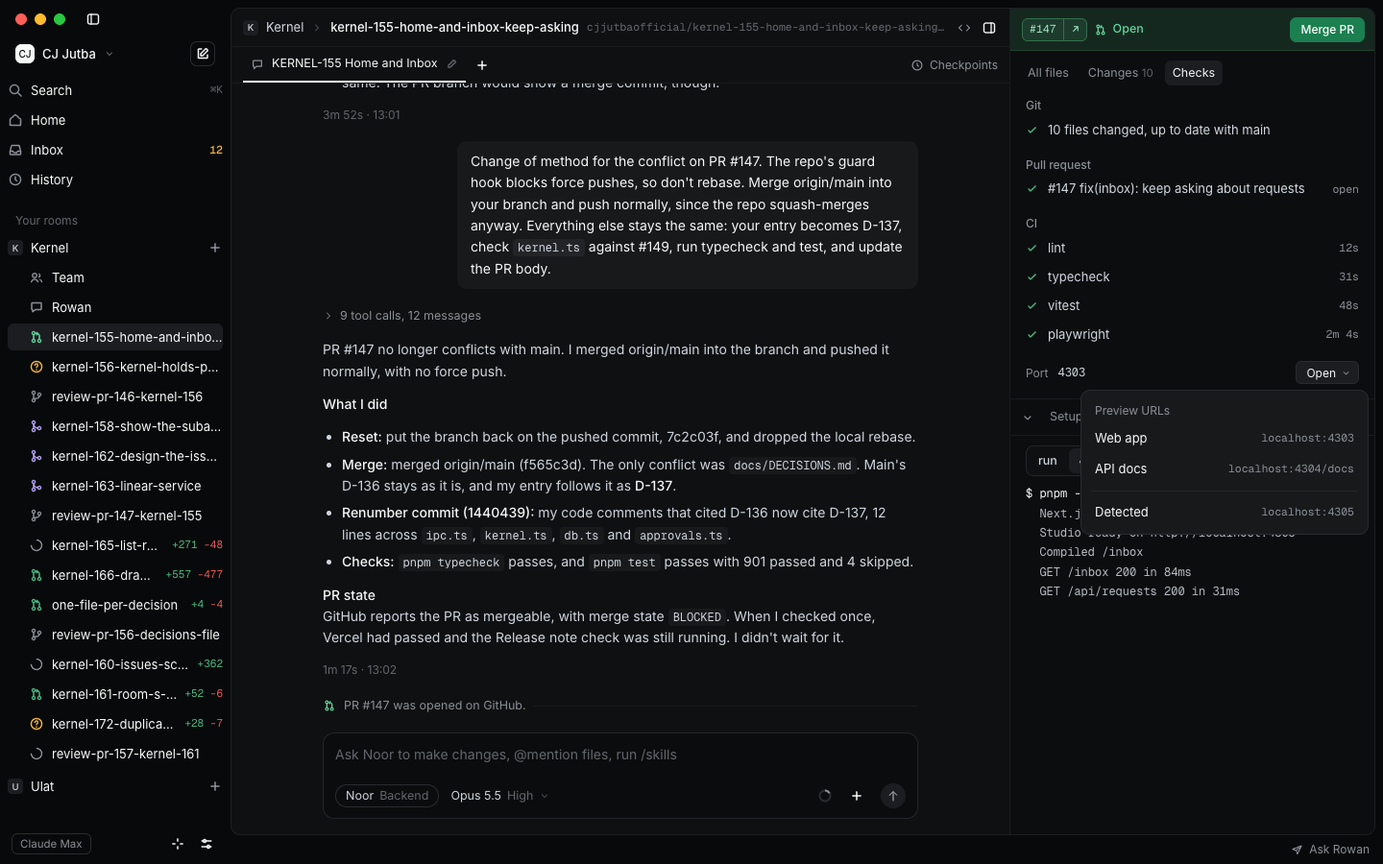
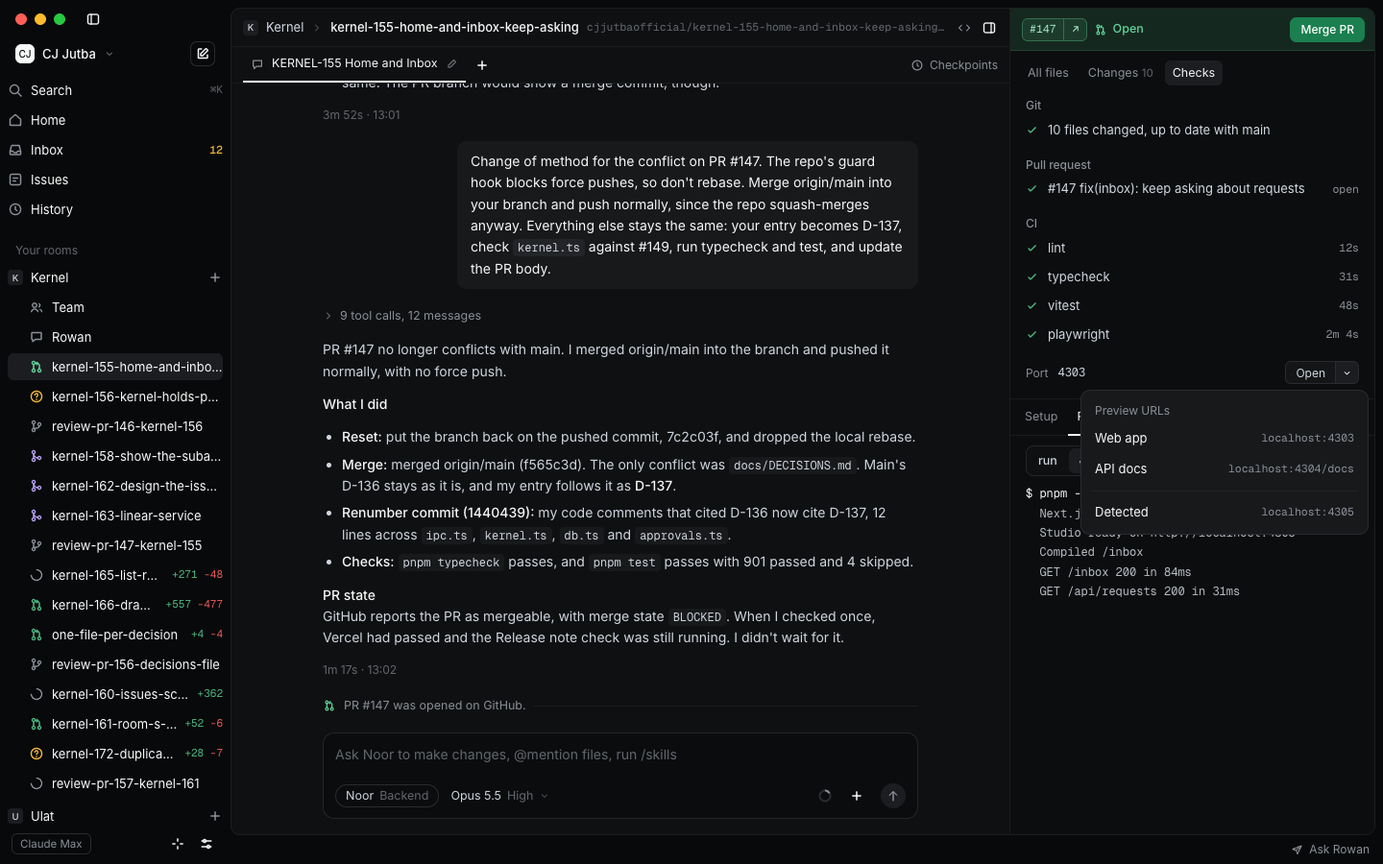
docs(design): match the app in the workspace panel pages (KERNEL-258)
Drops the bottom panel's collapse arrow and + (not built), adds the Issues row
to the sidebar, takes the icon off Stop, and draws Open as a split button.

Changed region(s): [[0.0, 0.1867, 0.1562, 0.9333], [0.9375, 0.4044, 0.9688, 0.4356], [0.75, 0.4667, 0.7812, 0.4978]]

diff --git a/design/canvas/project/WorkspacePreview.dc.html b/design/canvas/project/WorkspacePreview.dc.html
@@ -91,8 +91,9 @@ body{margin:0}
 .ck .l{flex:1;min-width:0;white-space:nowrap;overflow:hidden;text-overflow:ellipsis;color:var(--ink-2)}
 .ck .m{font-family:'Geist Mono',ui-monospace,monospace;font-size:11.5px;color:var(--muted)}
 .ghead{font-size:12px;font-weight:500;color:var(--muted)}
-.k .openbtn{display:inline-flex;align-items:center;gap:5px;height:24px;padding:0 7px 0 10px;font-size:12px;color:var(--ink-2);background:var(--surface);border:1px solid var(--line-3);border-radius:6px}
-.k .openbtn.on{background:var(--surface-3);color:var(--ink)}
+.k .openbtn{display:inline-flex;align-items:center;height:24px;padding:0 10px;font-size:12px;color:var(--ink-2);background:var(--surface);border:1px solid var(--line-3);border-radius:6px 0 0 6px}
+.k .opencaret{display:inline-flex;align-items:center;height:24px;margin-left:-1px;padding:0 6px;color:var(--muted);background:var(--surface);border:1px solid var(--line-3);border-radius:0 6px 6px 0}
+.k .opencaret.on{background:var(--surface-3);color:var(--ink)}
 .out{flex:1;min-height:0;overflow:hidden;padding:4px 16px 12px;font-family:'Geist Mono',ui-monospace,monospace;font-size:12px;line-height:1.7;color:var(--ink-3)}
 .out div{white-space:pre-wrap}
 .out .c{color:var(--ink)}
@@ -119,6 +120,7 @@ body{margin:0}
 <button class="row"><svg class="i g-muted" viewBox="0 0 16 16" aria-hidden="true"><circle cx="7" cy="7" r="4.5"></circle><path d="M10.5 10.5 14 14"></path></svg><span class="t">Search</span><span class="kbd">⌘K</span></button>
 <button class="row"><svg class="i g-muted" viewBox="0 0 16 16" aria-hidden="true"><path d="M2.5 7 8 2.5 13.5 7v6.5h-11z"></path></svg><span class="t">Home</span></button>
 <button class="row"><svg class="i g-muted" viewBox="0 0 16 16" aria-hidden="true"><path d="M2.5 9.5h3l1 1.5h3l1-1.5h3"></path><path d="M2.5 9.5 4 3.5h8l1.5 6v3.5h-11z"></path></svg><span class="t">Inbox</span><span class="mono" style="font-size: 11.5px; font-weight: 500; color: var(--count)">12</span></button>
+<button class="row"><svg class="i g-muted" viewBox="0 0 16 16" aria-hidden="true"><path d="M4 2.5h8a1.5 1.5 0 0 1 1.5 1.5v8a1.5 1.5 0 0 1-1.5 1.5H4A1.5 1.5 0 0 1 2.5 12V4A1.5 1.5 0 0 1 4 2.5ZM5.5 6.5h5M5.5 9.5h3"></path></svg><span class="t">Issues</span></button>
 <button class="row"><svg class="i g-muted" viewBox="0 0 16 16" aria-hidden="true"><circle cx="8" cy="8" r="5.5"></circle><path d="M8 5v3l2 1.5"></path></svg><span class="t">History</span></button>
 </div>
 
@@ -272,7 +274,7 @@ body{margin:0}
 <div style="display: flex; flex-direction: column; gap: 4px"><span class="ghead">CI</span><div class="ck"><svg width="13" height="13" viewBox="0 0 16 16" aria-hidden="true" fill="none" stroke="var(--add)" stroke-width="1.8" stroke-linecap="round" stroke-linejoin="round" style="flex-shrink: 0"><path d="m3.5 8.3 2.8 2.7 6.2-6.3"></path></svg><span class="l">lint</span><span class="m">12s</span></div><div class="ck"><svg width="13" height="13" viewBox="0 0 16 16" aria-hidden="true" fill="none" stroke="var(--add)" stroke-width="1.8" stroke-linecap="round" stroke-linejoin="round" style="flex-shrink: 0"><path d="m3.5 8.3 2.8 2.7 6.2-6.3"></path></svg><span class="l">typecheck</span><span class="m">31s</span></div><div class="ck"><svg width="13" height="13" viewBox="0 0 16 16" aria-hidden="true" fill="none" stroke="var(--add)" stroke-width="1.8" stroke-linecap="round" stroke-linejoin="round" style="flex-shrink: 0"><path d="m3.5 8.3 2.8 2.7 6.2-6.3"></path></svg><span class="l">vitest</span><span class="m">48s</span></div><div class="ck"><svg width="13" height="13" viewBox="0 0 16 16" aria-hidden="true" fill="none" stroke="var(--add)" stroke-width="1.8" stroke-linecap="round" stroke-linejoin="round" style="flex-shrink: 0"><path d="m3.5 8.3 2.8 2.7 6.2-6.3"></path></svg><span class="l">playwright</span><span class="m">2m 4s</span></div></div>
 <div class="ck" style="gap: 10px; font-size: 12px; color: var(--muted)"><span>Port</span><span class="mono" style="color: var(--ink-2)">4303</span>
 <div style="position: relative; margin-left: auto">
-<button class="openbtn{{ openCls }}" aria-haspopup="menu" aria-expanded="{{ openMenu }}">Open<svg class="i" viewBox="0 0 16 16" aria-hidden="true" style="width: 11px; height: 11px; color: var(--muted)"><path d="M4.5 6.5 8 10l3.5-3.5"></path></svg></button>
+<div style="display: flex"><button class="openbtn">Open</button><button class="opencaret{{ openCls }}" aria-label="More preview URLs" aria-haspopup="menu" aria-expanded="{{ openMenu }}"><svg class="i" viewBox="0 0 16 16" aria-hidden="true" style="width: 11px; height: 11px"><path d="M4.5 6.5 8 10l3.5-3.5"></path></svg></button></div>
 <sc-if value="{{ openMenu }}" hint-placeholder-val="{{ false }}"><div role="menu" aria-label="Open preview" class="menu" style="right: -10px; top: 30px; width: 300px">
 <div class="mh">Preview URLs</div>
 <button type="button" role="menuitem" class="mi"><span class="t">Web app</span><span class="h mono">localhost:4303</span></button>
@@ -286,12 +288,10 @@ body{margin:0}
 </sc-if>
 <div style="flex: 1; min-height: 0; margin-top: 8px; border-top: 1px solid var(--line); display: flex; flex-direction: column">
 <div class="btab">
-<button class="bi" aria-label="Collapse panel"><svg class="i" viewBox="0 0 16 16" aria-hidden="true" style="width: 14px; height: 14px"><path d="M4.5 6.5 8 10l3.5-3.5"></path></svg></button>
 <button class="bt">Setup</button>
 <button class="bt on">Run</button>
 <button class="bt">Terminal</button>
-<button class="bi" aria-label="New terminal"><svg class="i" viewBox="0 0 16 16" aria-hidden="true" style="width: 14px; height: 14px"><path d="M8 3.5v9M3.5 8h9"></path></svg></button>
-<button class="runbtn" style="margin-left: auto"><svg viewBox="0 0 16 16" aria-hidden="true" style="width: 9px; height: 9px"><rect x="3" y="3" width="10" height="10" rx="1.5" fill="currentColor"></rect></svg>Stop</button>
+<button class="runbtn" style="margin-left: auto">Stop</button>
 </div>
 <div style="flex-shrink: 0; padding: 10px 16px 4px"><div class="seg" role="radiogroup" aria-label="Run script">
 <button type="button" role="radio" aria-checked="false">run</button>

diff --git a/design/canvas/project/WorkspaceRunScripts.dc.html b/design/canvas/project/WorkspaceRunScripts.dc.html
@@ -91,8 +91,9 @@ body{margin:0}
 .ck .l{flex:1;min-width:0;white-space:nowrap;overflow:hidden;text-overflow:ellipsis;color:var(--ink-2)}
 .ck .m{font-family:'Geist Mono',ui-monospace,monospace;font-size:11.5px;color:var(--muted)}
 .ghead{font-size:12px;font-weight:500;color:var(--muted)}
-.k .openbtn{display:inline-flex;align-items:center;gap:5px;height:24px;padding:0 7px 0 10px;font-size:12px;color:var(--ink-2);background:var(--surface);border:1px solid var(--line-3);border-radius:6px}
-.k .openbtn.on{background:var(--surface-3);color:var(--ink)}
+.k .openbtn{display:inline-flex;align-items:center;height:24px;padding:0 10px;font-size:12px;color:var(--ink-2);background:var(--surface);border:1px solid var(--line-3);border-radius:6px 0 0 6px}
+.k .opencaret{display:inline-flex;align-items:center;height:24px;margin-left:-1px;padding:0 6px;color:var(--muted);background:var(--surface);border:1px solid var(--line-3);border-radius:0 6px 6px 0}
+.k .opencaret.on{background:var(--surface-3);color:var(--ink)}
 .out{flex:1;min-height:0;overflow:hidden;padding:4px 16px 12px;font-family:'Geist Mono',ui-monospace,monospace;font-size:12px;line-height:1.7;color:var(--ink-3)}
 .out div{white-space:pre-wrap}
 .out .c{color:var(--ink)}
@@ -119,6 +120,7 @@ body{margin:0}
 <button class="row"><svg class="i g-muted" viewBox="0 0 16 16" aria-hidden="true"><circle cx="7" cy="7" r="4.5"></circle><path d="M10.5 10.5 14 14"></path></svg><span class="t">Search</span><span class="kbd">⌘K</span></button>
 <button class="row"><svg class="i g-muted" viewBox="0 0 16 16" aria-hidden="true"><path d="M2.5 7 8 2.5 13.5 7v6.5h-11z"></path></svg><span class="t">Home</span></button>
 <button class="row"><svg class="i g-muted" viewBox="0 0 16 16" aria-hidden="true"><path d="M2.5 9.5h3l1 1.5h3l1-1.5h3"></path><path d="M2.5 9.5 4 3.5h8l1.5 6v3.5h-11z"></path></svg><span class="t">Inbox</span><span class="mono" style="font-size: 11.5px; font-weight: 500; color: var(--count)">12</span></button>
+<button class="row"><svg class="i g-muted" viewBox="0 0 16 16" aria-hidden="true"><path d="M4 2.5h8a1.5 1.5 0 0 1 1.5 1.5v8a1.5 1.5 0 0 1-1.5 1.5H4A1.5 1.5 0 0 1 2.5 12V4A1.5 1.5 0 0 1 4 2.5ZM5.5 6.5h5M5.5 9.5h3"></path></svg><span class="t">Issues</span></button>
 <button class="row"><svg class="i g-muted" viewBox="0 0 16 16" aria-hidden="true"><circle cx="8" cy="8" r="5.5"></circle><path d="M8 5v3l2 1.5"></path></svg><span class="t">History</span></button>
 </div>
 
@@ -272,7 +274,7 @@ body{margin:0}
 <div style="display: flex; flex-direction: column; gap: 4px"><span class="ghead">CI</span><div class="ck"><svg width="13" height="13" viewBox="0 0 16 16" aria-hidden="true" fill="none" stroke="var(--add)" stroke-width="1.8" stroke-linecap="round" stroke-linejoin="round" style="flex-shrink: 0"><path d="m3.5 8.3 2.8 2.7 6.2-6.3"></path></svg><span class="l">lint</span><span class="m">12s</span></div><div class="ck"><svg width="13" height="13" viewBox="0 0 16 16" aria-hidden="true" fill="none" stroke="var(--add)" stroke-width="1.8" stroke-linecap="round" stroke-linejoin="round" style="flex-shrink: 0"><path d="m3.5 8.3 2.8 2.7 6.2-6.3"></path></svg><span class="l">typecheck</span><span class="m">31s</span></div><div class="ck"><svg width="13" height="13" viewBox="0 0 16 16" aria-hidden="true" fill="none" stroke="var(--add)" stroke-width="1.8" stroke-linecap="round" stroke-linejoin="round" style="flex-shrink: 0"><path d="m3.5 8.3 2.8 2.7 6.2-6.3"></path></svg><span class="l">vitest</span><span class="m">48s</span></div><div class="ck"><svg width="13" height="13" viewBox="0 0 16 16" aria-hidden="true" fill="none" stroke="var(--add)" stroke-width="1.8" stroke-linecap="round" stroke-linejoin="round" style="flex-shrink: 0"><path d="m3.5 8.3 2.8 2.7 6.2-6.3"></path></svg><span class="l">playwright</span><span class="m">2m 4s</span></div></div>
 <div class="ck" style="gap: 10px; font-size: 12px; color: var(--muted)"><span>Port</span><span class="mono" style="color: var(--ink-2)">4303</span>
 <div style="position: relative; margin-left: auto">
-<button class="openbtn{{ openCls }}" aria-haspopup="menu" aria-expanded="{{ openMenu }}">Open<svg class="i" viewBox="0 0 16 16" aria-hidden="true" style="width: 11px; height: 11px; color: var(--muted)"><path d="M4.5 6.5 8 10l3.5-3.5"></path></svg></button>
+<div style="display: flex"><button class="openbtn">Open</button><button class="opencaret{{ openCls }}" aria-label="More preview URLs" aria-haspopup="menu" aria-expanded="{{ openMenu }}"><svg class="i" viewBox="0 0 16 16" aria-hidden="true" style="width: 11px; height: 11px"><path d="M4.5 6.5 8 10l3.5-3.5"></path></svg></button></div>
 <sc-if value="{{ openMenu }}" hint-placeholder-val="{{ false }}"><div role="menu" aria-label="Open preview" class="menu" style="right: -10px; top: 30px; width: 300px">
 <div class="mh">Preview URLs</div>
 <button type="button" role="menuitem" class="mi"><span class="t">Web app</span><span class="h mono">localhost:4303</span></button>
@@ -286,12 +288,10 @@ body{margin:0}
 </sc-if>
 <div style="flex: 1; min-height: 0; margin-top: 8px; border-top: 1px solid var(--line); display: flex; flex-direction: column">
 <div class="btab">
-<button class="bi" aria-label="Collapse panel"><svg class="i" viewBox="0 0 16 16" aria-hidden="true" style="width: 14px; height: 14px"><path d="M4.5 6.5 8 10l3.5-3.5"></path></svg></button>
 <button class="bt">Setup</button>
 <button class="bt on">Run</button>
 <button class="bt">Terminal</button>
-<button class="bi" aria-label="New terminal"><svg class="i" viewBox="0 0 16 16" aria-hidden="true" style="width: 14px; height: 14px"><path d="M8 3.5v9M3.5 8h9"></path></svg></button>
-<button class="runbtn" style="margin-left: auto"><svg viewBox="0 0 16 16" aria-hidden="true" style="width: 9px; height: 9px"><rect x="3" y="3" width="10" height="10" rx="1.5" fill="currentColor"></rect></svg>Stop</button>
+<button class="runbtn" style="margin-left: auto">Stop</button>
 </div>
 <div style="flex-shrink: 0; padding: 10px 16px 4px"><div class="seg" role="radiogroup" aria-label="Run script">
 <button type="button" role="radio" aria-checked="false">run</button>

diff --git a/design/canvas/project/WorkspaceTerminalPresets.dc.html b/design/canvas/project/WorkspaceTerminalPresets.dc.html
@@ -91,8 +91,9 @@ body{margin:0}
 .ck .l{flex:1;min-width:0;white-space:nowrap;overflow:hidden;text-overflow:ellipsis;color:var(--ink-2)}
 .ck .m{font-family:'Geist Mono',ui-monospace,monospace;font-size:11.5px;color:var(--muted)}
 .ghead{font-size:12px;font-weight:500;color:var(--muted)}
-.k .openbtn{display:inline-flex;align-items:center;gap:5px;height:24px;padding:0 7px 0 10px;font-size:12px;color:var(--ink-2);background:var(--surface);border:1px solid var(--line-3);border-radius:6px}
-.k .openbtn.on{background:var(--surface-3);color:var(--ink)}
+.k .openbtn{display:inline-flex;align-items:center;height:24px;padding:0 10px;font-size:12px;color:var(--ink-2);background:var(--surface);border:1px solid var(--line-3);border-radius:6px 0 0 6px}
+.k .opencaret{display:inline-flex;align-items:center;height:24px;margin-left:-1px;padding:0 6px;color:var(--muted);background:var(--surface);border:1px solid var(--line-3);border-radius:0 6px 6px 0}
+.k .opencaret.on{background:var(--surface-3);color:var(--ink)}
 .out{flex:1;min-height:0;overflow:hidden;padding:4px 16px 12px;font-family:'Geist Mono',ui-monospace,monospace;font-size:12px;line-height:1.7;color:var(--ink-3)}
 .out div{white-space:pre-wrap}
 .out .c{color:var(--ink)}
@@ -119,6 +120,7 @@ body{margin:0}
 <button class="row"><svg class="i g-muted" viewBox="0 0 16 16" aria-hidden="true"><circle cx="7" cy="7" r="4.5"></circle><path d="M10.5 10.5 14 14"></path></svg><span class="t">Search</span><span class="kbd">⌘K</span></button>
 <button class="row"><svg class="i g-muted" viewBox="0 0 16 16" aria-hidden="true"><path d="M2.5 7 8 2.5 13.5 7v6.5h-11z"></path></svg><span class="t">Home</span></button>
 <button class="row"><svg class="i g-muted" viewBox="0 0 16 16" aria-hidden="true"><path d="M2.5 9.5h3l1 1.5h3l1-1.5h3"></path><path d="M2.5 9.5 4 3.5h8l1.5 6v3.5h-11z"></path></svg><span class="t">Inbox</span><span class="mono" style="font-size: 11.5px; font-weight: 500; color: var(--count)">12</span></button>
+<button class="row"><svg class="i g-muted" viewBox="0 0 16 16" aria-hidden="true"><path d="M4 2.5h8a1.5 1.5 0 0 1 1.5 1.5v8a1.5 1.5 0 0 1-1.5 1.5H4A1.5 1.5 0 0 1 2.5 12V4A1.5 1.5 0 0 1 4 2.5ZM5.5 6.5h5M5.5 9.5h3"></path></svg><span class="t">Issues</span></button>
 <button class="row"><svg class="i g-muted" viewBox="0 0 16 16" aria-hidden="true"><circle cx="8" cy="8" r="5.5"></circle><path d="M8 5v3l2 1.5"></path></svg><span class="t">History</span></button>
 </div>
 
@@ -272,7 +274,7 @@ body{margin:0}
 <div style="display: flex; flex-direction: column; gap: 4px"><span class="ghead">CI</span><div class="ck"><svg width="13" height="13" viewBox="0 0 16 16" aria-hidden="true" fill="none" stroke="var(--add)" stroke-width="1.8" stroke-linecap="round" stroke-linejoin="round" style="flex-shrink: 0"><path d="m3.5 8.3 2.8 2.7 6.2-6.3"></path></svg><span class="l">lint</span><span class="m">12s</span></div><div class="ck"><svg width="13" height="13" viewBox="0 0 16 16" aria-hidden="true" fill="none" stroke="var(--add)" stroke-width="1.8" stroke-linecap="round" stroke-linejoin="round" style="flex-shrink: 0"><path d="m3.5 8.3 2.8 2.7 6.2-6.3"></path></svg><span class="l">typecheck</span><span class="m">31s</span></div><div class="ck"><svg width="13" height="13" viewBox="0 0 16 16" aria-hidden="true" fill="none" stroke="var(--add)" stroke-width="1.8" stroke-linecap="round" stroke-linejoin="round" style="flex-shrink: 0"><path d="m3.5 8.3 2.8 2.7 6.2-6.3"></path></svg><span class="l">vitest</span><span class="m">48s</span></div><div class="ck"><svg width="13" height="13" viewBox="0 0 16 16" aria-hidden="true" fill="none" stroke="var(--add)" stroke-width="1.8" stroke-linecap="round" stroke-linejoin="round" style="flex-shrink: 0"><path d="m3.5 8.3 2.8 2.7 6.2-6.3"></path></svg><span class="l">playwright</span><span class="m">2m 4s</span></div></div>
 <div class="ck" style="gap: 10px; font-size: 12px; color: var(--muted)"><span>Port</span><span class="mono" style="color: var(--ink-2)">4303</span>
 <div style="position: relative; margin-left: auto">
-<button class="openbtn{{ openCls }}" aria-haspopup="menu" aria-expanded="{{ openMenu }}">Open<svg class="i" viewBox="0 0 16 16" aria-hidden="true" style="width: 11px; height: 11px; color: var(--muted)"><path d="M4.5 6.5 8 10l3.5-3.5"></path></svg></button>
+<div style="display: flex"><button class="openbtn">Open</button><button class="opencaret{{ openCls }}" aria-label="More preview URLs" aria-haspopup="menu" aria-expanded="{{ openMenu }}"><svg class="i" viewBox="0 0 16 16" aria-hidden="true" style="width: 11px; height: 11px"><path d="M4.5 6.5 8 10l3.5-3.5"></path></svg></button></div>
 <sc-if value="{{ openMenu }}" hint-placeholder-val="{{ false }}"><div role="menu" aria-label="Open preview" class="menu" style="right: -10px; top: 30px; width: 300px">
 <div class="mh">Preview URLs</div>
 <button type="button" role="menuitem" class="mi"><span class="t">Web app</span><span class="h mono">localhost:4303</span></button>
@@ -286,12 +288,10 @@ body{margin:0}
 </sc-if>
 <div style="flex: 1; min-height: 0; margin-top: 8px; border-top: 1px solid var(--line); display: flex; flex-direction: column">
 <div class="btab">
-<button class="bi" aria-label="Collapse panel"><svg class="i" viewBox="0 0 16 16" aria-hidden="true" style="width: 14px; height: 14px"><path d="M4.5 6.5 8 10l3.5-3.5"></path></svg></button>
 <button class="bt">Setup</button>
 <button class="bt on">Run</button>
 <button class="bt">Terminal</button>
-<button class="bi" aria-label="New terminal"><svg class="i" viewBox="0 0 16 16" aria-hidden="true" style="width: 14px; height: 14px"><path d="M8 3.5v9M3.5 8h9"></path></svg></button>
-<button class="runbtn" style="margin-left: auto"><svg viewBox="0 0 16 16" aria-hidden="true" style="width: 9px; height: 9px"><rect x="3" y="3" width="10" height="10" rx="1.5" fill="currentColor"></rect></svg>Stop</button>
+<button class="runbtn" style="margin-left: auto">Stop</button>
 </div>
 <div style="flex-shrink: 0; padding: 10px 16px 4px"><div class="seg" role="radiogroup" aria-label="Run script">
 <button type="button" role="radio" aria-checked="false">run</button>

diff --git a/design/canvas/source/templates/WorkspacePanels.dc.html b/design/canvas/source/templates/WorkspacePanels.dc.html
@@ -91,8 +91,9 @@ body{margin:0}
 .ck .l{flex:1;min-width:0;white-space:nowrap;overflow:hidden;text-overflow:ellipsis;color:var(--ink-2)}
 .ck .m{font-family:'Geist Mono',ui-monospace,monospace;font-size:11.5px;color:var(--muted)}
 .ghead{font-size:12px;font-weight:500;color:var(--muted)}
-.k .openbtn{display:inline-flex;align-items:center;gap:5px;height:24px;padding:0 7px 0 10px;font-size:12px;color:var(--ink-2);background:var(--surface);border:1px solid var(--line-3);border-radius:6px}
-.k .openbtn.on{background:var(--surface-3);color:var(--ink)}
+.k .openbtn{display:inline-flex;align-items:center;height:24px;padding:0 10px;font-size:12px;color:var(--ink-2);background:var(--surface);border:1px solid var(--line-3);border-radius:6px 0 0 6px}
+.k .opencaret{display:inline-flex;align-items:center;height:24px;margin-left:-1px;padding:0 6px;color:var(--muted);background:var(--surface);border:1px solid var(--line-3);border-radius:0 6px 6px 0}
+.k .opencaret.on{background:var(--surface-3);color:var(--ink)}
 .out{flex:1;min-height:0;overflow:hidden;padding:4px 16px 12px;font-family:'Geist Mono',ui-monospace,monospace;font-size:12px;line-height:1.7;color:var(--ink-3)}
 .out div{white-space:pre-wrap}
 .out .c{color:var(--ink)}
@@ -119,6 +120,7 @@ body{margin:0}
 <button class="row"><svg class="i g-muted" viewBox="0 0 16 16" aria-hidden="true"><circle cx="7" cy="7" r="4.5"></circle><path d="M10.5 10.5 14 14"></path></svg><span class="t">Search</span><span class="kbd">⌘K</span></button>
 <button class="row"><svg class="i g-muted" viewBox="0 0 16 16" aria-hidden="true"><path d="M2.5 7 8 2.5 13.5 7v6.5h-11z"></path></svg><span class="t">Home</span></button>
 <button class="row"><svg class="i g-muted" viewBox="0 0 16 16" aria-hidden="true"><path d="M2.5 9.5h3l1 1.5h3l1-1.5h3"></path><path d="M2.5 9.5 4 3.5h8l1.5 6v3.5h-11z"></path></svg><span class="t">Inbox</span><span class="mono" style="font-size: 11.5px; font-weight: 500; color: var(--count)">12</span></button>
+<button class="row"><svg class="i g-muted" viewBox="0 0 16 16" aria-hidden="true"><path d="M4 2.5h8a1.5 1.5 0 0 1 1.5 1.5v8a1.5 1.5 0 0 1-1.5 1.5H4A1.5 1.5 0 0 1 2.5 12V4A1.5 1.5 0 0 1 4 2.5ZM5.5 6.5h5M5.5 9.5h3"></path></svg><span class="t">Issues</span></button>
 <button class="row"><svg class="i g-muted" viewBox="0 0 16 16" aria-hidden="true"><circle cx="8" cy="8" r="5.5"></circle><path d="M8 5v3l2 1.5"></path></svg><span class="t">History</span></button>
 </div>
 
@@ -272,7 +274,7 @@ body{margin:0}
 <div style="display: flex; flex-direction: column; gap: 4px"><span class="ghead">CI</span><div class="ck"><svg width="13" height="13" viewBox="0 0 16 16" aria-hidden="true" fill="none" stroke="var(--add)" stroke-width="1.8" stroke-linecap="round" stroke-linejoin="round" style="flex-shrink: 0"><path d="m3.5 8.3 2.8 2.7 6.2-6.3"></path></svg><span class="l">lint</span><span class="m">12s</span></div><div class="ck"><svg width="13" height="13" viewBox="0 0 16 16" aria-hidden="true" fill="none" stroke="var(--add)" stroke-width="1.8" stroke-linecap="round" stroke-linejoin="round" style="flex-shrink: 0"><path d="m3.5 8.3 2.8 2.7 6.2-6.3"></path></svg><span class="l">typecheck</span><span class="m">31s</span></div><div class="ck"><svg width="13" height="13" viewBox="0 0 16 16" aria-hidden="true" fill="none" stroke="var(--add)" stroke-width="1.8" stroke-linecap="round" stroke-linejoin="round" style="flex-shrink: 0"><path d="m3.5 8.3 2.8 2.7 6.2-6.3"></path></svg><span class="l">vitest</span><span class="m">48s</span></div><div class="ck"><svg width="13" height="13" viewBox="0 0 16 16" aria-hidden="true" fill="none" stroke="var(--add)" stroke-width="1.8" stroke-linecap="round" stroke-linejoin="round" style="flex-shrink: 0"><path d="m3.5 8.3 2.8 2.7 6.2-6.3"></path></svg><span class="l">playwright</span><span class="m">2m 4s</span></div></div>
 <div class="ck" style="gap: 10px; font-size: 12px; color: var(--muted)"><span>Port</span><span class="mono" style="color: var(--ink-2)">4303</span>
 <div style="position: relative; margin-left: auto">
-<button class="openbtn{{ openCls }}" aria-haspopup="menu" aria-expanded="{{ openMenu }}">Open<svg class="i" viewBox="0 0 16 16" aria-hidden="true" style="width: 11px; height: 11px; color: var(--muted)"><path d="M4.5 6.5 8 10l3.5-3.5"></path></svg></button>
+<div style="display: flex"><button class="openbtn">Open</button><button class="opencaret{{ openCls }}" aria-label="More preview URLs" aria-haspopup="menu" aria-expanded="{{ openMenu }}"><svg class="i" viewBox="0 0 16 16" aria-hidden="true" style="width: 11px; height: 11px"><path d="M4.5 6.5 8 10l3.5-3.5"></path></svg></button></div>
 <sc-if value="{{ openMenu }}" hint-placeholder-val="{{ false }}"><div role="menu" aria-label="Open preview" class="menu" style="right: -10px; top: 30px; width: 300px">
 <div class="mh">Preview URLs</div>
 <button type="button" role="menuitem" class="mi"><span class="t">Web app</span><span class="h mono">localhost:4303</span></button>
@@ -286,12 +288,10 @@ body{margin:0}
 </sc-if>
 <div style="flex: 1; min-height: 0; margin-top: 8px; border-top: 1px solid var(--line); display: flex; flex-direction: column">
 <div class="btab">
-<button class="bi" aria-label="Collapse panel"><svg class="i" viewBox="0 0 16 16" aria-hidden="true" style="width: 14px; height: 14px"><path d="M4.5 6.5 8 10l3.5-3.5"></path></svg></button>
 <button class="bt">Setup</button>
 <button class="bt on">Run</button>
 <button class="bt">Terminal</button>
-<button class="bi" aria-label="New terminal"><svg class="i" viewBox="0 0 16 16" aria-hidden="true" style="width: 14px; height: 14px"><path d="M8 3.5v9M3.5 8h9"></path></svg></button>
-<button class="runbtn" style="margin-left: auto"><svg viewBox="0 0 16 16" aria-hidden="true" style="width: 9px; height: 9px"><rect x="3" y="3" width="10" height="10" rx="1.5" fill="currentColor"></rect></svg>Stop</button>
+<button class="runbtn" style="margin-left: auto">Stop</button>
 </div>
 <div style="flex-shrink: 0; padding: 10px 16px 4px"><div class="seg" role="radiogroup" aria-label="Run script">
 <button type="button" role="radio" aria-checked="false">run</button>

diff --git a/docs/decisions/KERNEL-258.md b/docs/decisions/KERNEL-258.md
@@ -2,7 +2,7 @@
 
 **The Run tab picks a script with a segmented control, and a running script shows the spinner arc.** The scripts are the room's run scripts (`run`, `frontend`, `backend`), set out as the Run mode control in Settings. The selected one takes the surface-3 fill. A running script has the same spinner arc the sidebar uses, and no dot. The tab strip button reads Stop for a running script and Run for an idle one. The idle scripts show nothing extra. KERNEL-258.
 
-**Open sits at the right of the Port row on the Checks tab and opens a menu of preview URLs.** The menu lists the named URLs from Settings (name at the left, address in mono at the right), a hairline, then one row for the URL Kernel found in the run output. Shortcuts in menus stay as glyphs at the right of the row (`⌘T`, `⌘⇧T`), as in the other menus. KERNEL-258.
+**Open is a split button at the right of the Port row on the Checks tab.** Open opens the first URL, and the caret segment opens a menu of every URL. The menu lists the named URLs from Settings (name at the left, address in mono at the right), a hairline, then one row for the URL Kernel found in the run output. Shortcuts in menus stay as glyphs at the right of the row (`⌘T`, `⌘⇧T`), as in the other menus. KERNEL-258.
 
 **The + in the tab strip opens New chat, then the terminal presets.** New chat carries `⌘T`, a hairline follows, then Claude (`⌘⇧T`), Claude without permission prompts, Shell, Codex and the room's custom commands. A terminal tab is titled with its preset, for example "Terminal (codex)". KERNEL-258.
 
